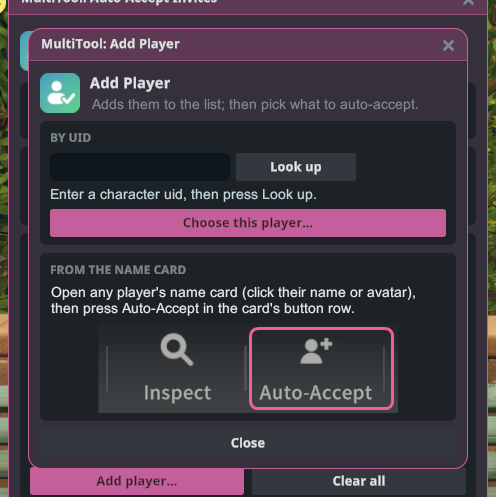
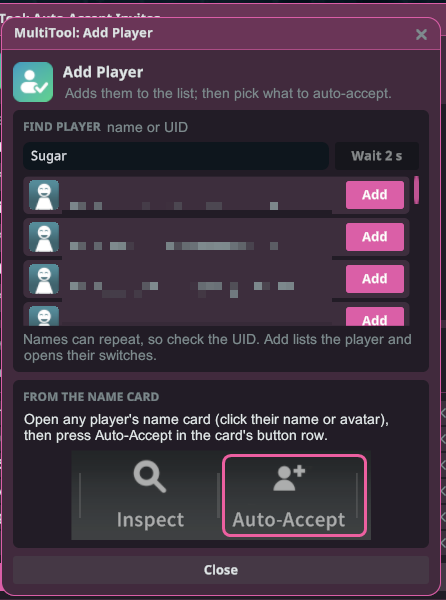
multitool 1.3.0: guide, screenshots, captions, changelog

diff --git a/plugins/multitool/guide.th.md b/plugins/multitool/guide.th.md
@@ -29,24 +29,23 @@
 
 ## Auto-Accept Invites (ตอบรับคำเชิญอัตโนมัติ)
 
-ตอบรับคำเชิญให้อัตโนมัติ แต่เฉพาะจากผู้เล่นที่อยู่ในรายชื่อของคุณเท่านั้น
+ตอบรับคำเชิญและคำขอโดยอัตโนมัติ แต่ละประเภทเลือกได้ 3 แบบ: **Off** (ตอบเอง), **Listed** (เฉพาะผู้เล่นในรายชื่อ) และ **Everyone** (ทุกคน)
 
 ![Auto-Accept Invites (ตอบรับคำเชิญอัตโนมัติ)](media/auto-accept.png)
 
-- **Accept all party requests** (อนุมัติคำขอเข้าปาร์ตี้ทั้งหมด): อนุมัติทุกคำขอเข้าร่วมปาร์ตี้ของคุณ ไม่ว่าจะมาจากใคร
-- **Party invites** (คำเชิญปาร์ตี้): ตอบรับคำเชิญเข้าปาร์ตี้จากผู้เล่นในรายชื่อ
-- **Social invites** (คำเชิญโซเชียล): ตอบรับคำชวนทำท่าทางคู่และคำชวนขี่พาหนะด้วยกันจากผู้เล่นในรายชื่อ
-- ผู้เล่นแต่ละคนในรายชื่อมีสวิตช์ **Party** (ปาร์ตี้) และ **Social** (โซเชียล) เป็นของตัวเอง เอาผู้เล่นออกด้วย **✕** ในแถวของเขา
-  หรือล้างรายชื่อทั้งหมดด้วย **Clear all** (ล้างทั้งหมด)
+- **Party** (ปาร์ตี้): คำเชิญเข้าปาร์ตี้ และคำขอเข้าร่วมปาร์ตี้ของคุณ
+- **Social** (โซเชียล): คำชวนทำท่าทางคู่และคำชวนขี่พาหนะด้วยกัน
+- **Party leader requests** (คำขอเป็นหัวหน้าปาร์ตี้): สมาชิกขอรับตำแหน่งหัวหน้าต่อ ขณะที่คุณเป็นหัวหน้าปาร์ตี้
+- ผู้เล่นแต่ละคนในรายชื่อมีสวิตช์ **Party**, **Social** และ **Leader** เป็นของตัวเอง ใช้เมื่อประเภทนั้นตั้งเป็น **Listed** เอาผู้เล่นออกด้วย **✕** ในแถวของเขา หรือล้างรายชื่อทั้งหมดด้วย **Clear all** (ล้างทั้งหมด)
+- เมื่อตอบรับแล้ว การ์ดคำเชิญของเกมจะปิดเอง
 
 ### การเพิ่มผู้เล่น
 
 ![การเพิ่มผู้เล่น](media/add-player.png)
 
 - **From the name card** (จากนามบัตร): เปิดนามบัตรของผู้เล่นคนไหนก็ได้ (คลิกชื่อหรือรูปโปรไฟล์ของเขา) แล้วกด
-  **Auto-Accept** ในแถวปุ่มของนามบัตร เขาจะถูกเพิ่มลงในรายชื่อของคุณ และจะมีหน้าต่างเล็ก ๆ เปิดขึ้นให้คุณเลือกว่าจะตอบรับอะไรจากเขาบ้าง
-- **By UID** (ด้วย UID): คลิก **Add player…** (เพิ่มผู้เล่น) พิมพ์ UID ของเขา กด **Look up** (ค้นหา) แล้วกด
-  **Choose this player…** (เลือกผู้เล่นคนนี้)
+  **Auto-Accept** ในแถวปุ่มของนามบัตร เขาจะถูกเพิ่มลงในรายชื่อของคุณ และจะมีหน้าต่างเล็ก ๆ เปิดขึ้นให้คุณเลือกว่าจะตอบรับอะไรจากเขาบ้าง สวิตช์ทุกตัวเริ่มต้นที่ปิด
+- **ด้วยชื่อหรือ UID**: คลิก **Add player…** (เพิ่มผู้เล่น) พิมพ์ชื่อบางส่วนหรือ UID แล้วกด **Search** (ค้นหา) ชื่ออาจซ้ำกันได้ ให้ดู UID ก่อนกด **Add** (เพิ่ม) เกมจำกัดความถี่ในการค้นหา จึงต้องรอสักครู่ระหว่างการค้นหาแต่ละครั้ง
 
 ## Language & Text (ภาษาและข้อความ)
 

diff --git a/plugins/multitool/guide.ja.md b/plugins/multitool/guide.ja.md
@@ -28,21 +28,22 @@
 
 ## Auto-Accept Invites（招待の自動承認）
 
-招待を自動で承認します。ただし、リストに登録したプレイヤーからの招待だけです。
+招待や申請を自動で承認します。種類ごとに3つから選べます：**Off**（自分で応答）、**Listed**（リストのプレイヤーからだけ）、**Everyone**（誰からでも）。
 
 ![Auto-Accept Invites（招待の自動承認）](media/auto-accept.png)
 
-- **Accept all party requests**（すべてのパーティ申請を承認）：誰からでも、パーティへの参加申請をすべて承認します。
-- **Party invites**（パーティ招待）：リストのプレイヤーからのパーティ招待を承認します。
-- **Social invites**（ソーシャル招待）：リストのプレイヤーからの、2人で行うエモートや相乗りの誘いを承認します。
-- リストの各プレイヤーには、それぞれ **Party**（パーティ）と **Social**（ソーシャル）のスイッチがあります。プレイヤーを外すにはその行の **✕** を、リストを空にするには **Clear all**（すべて消去）を押します。
+- **Party**（パーティ）：パーティへの招待と、あなたのパーティへの参加申請。
+- **Social**（ソーシャル）：2人で行うエモートや相乗りの誘い。
+- **Party leader requests**（リーダー申請）：あなたがリーダーのときに、メンバーからリーダーを交代してほしいという申請。
+- リストの各プレイヤーには **Party**、**Social**、**Leader** のスイッチがあり、その種類が **Listed** のときに使われます。プレイヤーを外すにはその行の **✕** を、リストを空にするには **Clear all**（すべて消去）を押します。
+- 承認すると、ゲームの招待カードは自動で閉じます。
 
 ### プレイヤーを追加する
 
 ![プレイヤーの追加](media/add-player.png)
 
-- **From the name card**（名刺から）：プレイヤーの名刺を開き（名前かアバターをクリック）、名刺のボタン列にある **Auto-Accept** を押します。リストに追加され、その相手から何を承認するかを選ぶ小さなウィンドウが開きます。
-- **By UID**（UIDで）：**Add player…**（プレイヤーを追加）をクリックし、相手のUIDを入力して **Look up**（検索）を押し、続けて **Choose this player…**（このプレイヤーを選択）を押します。
+- **From the name card**（名刺から）：プレイヤーの名刺を開き（名前かアバターをクリック）、名刺のボタン列にある **Auto-Accept** を押します。リストに追加され、その相手から何を承認するかを選ぶ小さなウィンドウが開きます。スイッチは最初すべてOffです。
+- **名前またはUIDで**：**Add player…**（プレイヤーを追加）をクリックし、名前の一部かUIDを入力して **Search**（検索）を押します。同じ名前のプレイヤーがいることがあるので、UIDを確かめてから **Add**（追加）を押してください。ゲームの制限で検索は数秒おきにしかできません。
 
 ## Language & Text（言語とテキスト）
 

diff --git a/plugins/multitool/guide.fil.md b/plugins/multitool/guide.fil.md
@@ -33,17 +33,15 @@ tumugtog siya malapit sa iyo.
 
 ## Auto-Accept Invites (Awtomatikong pagtanggap ng imbitasyon)
 
-Awtomatikong tanggapin ang mga imbitasyon, pero mula lang sa mga player na nasa listahan mo.
+Awtomatikong tanggapin ang mga imbitasyon at request. May tatlong pagpipilian ang bawat uri: **Off** (ikaw ang sasagot), **Listed** (mula lang sa mga player sa listahan) at **Everyone** (mula kahit kanino).
 
 ![Auto-Accept Invites (Awtomatikong pagtanggap ng imbitasyon)](media/auto-accept.png)
 
-- **Accept all party requests** (Tanggapin lahat ng party request): inaaprubahan ang bawat request na sumali sa
-  party mo, mula kahit kanino.
-- **Party invites** (Mga imbitasyon sa party): tinatanggap ang mga imbitasyon sa party mula sa mga player sa listahan.
-- **Social invites** (Mga social na imbitasyon): tinatanggap ang mga imbitasyon sa co-op emote at sa pagsakay nang
-  magkasama mula sa mga player sa listahan.
-- May sariling **Party** at **Social** na switch ang bawat player sa listahan. Alisin ang isang player gamit ang **✕**
-  sa row niya, o burahin ang buong listahan gamit ang **Clear all** (Burahin lahat).
+- **Party**: mga imbitasyon sa party, at mga request na sumali sa party mo.
+- **Social**: mga imbitasyon sa co-op emote at sa pagsakay nang magkasama.
+- **Party leader requests** (Mga request na maging leader): humihiling ang isang miyembro na siya na ang maging leader habang ikaw ang leader.
+- May sariling **Party**, **Social** at **Leader** na switch ang bawat player sa listahan, na ginagamit kapag **Listed** ang napili para sa uring iyon. Alisin ang isang player gamit ang **✕** sa row niya, o burahin ang buong listahan gamit ang **Clear all** (Burahin lahat).
+- Kapag natanggap na, kusang nagsasara ang invite card ng laro.
 
 ### Pagdagdag ng player
 
@@ -51,9 +49,8 @@ Awtomatikong tanggapin ang mga imbitasyon, pero mula lang sa mga player na nasa 
 
 - **From the name card** (Mula sa name card): buksan ang name card ng kahit sinong player (i-click ang pangalan o
   avatar niya) at pindutin ang **Auto-Accept** sa hanay ng mga button ng card. Madadagdag siya sa listahan mo at
-  magbubukas ang isang maliit na window kung saan pipiliin mo kung ano ang tatanggapin mula sa kanya.
-- **By UID** (Gamit ang UID): i-click ang **Add player…** (Magdagdag ng player), i-type ang UID niya, pindutin ang
-  **Look up** (Hanapin), tapos ang **Choose this player…** (Piliin ang player na ito).
+  magbubukas ang isang maliit na window kung saan pipiliin mo kung ano ang tatanggapin mula sa kanya. Naka-off ang lahat ng switch sa simula.
+- **Gamit ang pangalan o UID**: i-click ang **Add player…** (Magdagdag ng player), i-type ang bahagi ng pangalan o ang UID, at pindutin ang **Search** (Hanapin). Puwedeng magkapareho ang mga pangalan, kaya tingnan muna ang UID bago pindutin ang **Add** (Idagdag). Nililimitahan ng laro kung gaano kadalas ka makakapaghanap, kaya maghintay ng ilang segundo sa pagitan.
 
 ## Language & Text (Wika at text)
 

diff --git a/plugins/multitool/guide.ko.md b/plugins/multitool/guide.ko.md
@@ -30,24 +30,23 @@
 
 ## Auto-Accept Invites(초대 자동 수락)
 
-초대를 자동으로 수락합니다. 단, 목록에 넣은 플레이어의 초대만 수락합니다.
+초대와 신청을 자동으로 수락합니다. 종류마다 세 가지 중에서 고릅니다: **Off**(직접 응답), **Listed**(목록에 있는 플레이어만), **Everyone**(누구든).
 
 ![Auto-Accept Invites(초대 자동 수락)](media/auto-accept.png)
 
-- **Accept all party requests**(모든 파티 신청 수락): 누가 보냈든 파티 참가 신청을 모두 승인합니다.
-- **Party invites**(파티 초대): 목록에 있는 플레이어의 파티 초대를 수락합니다.
-- **Social invites**(소셜 초대): 목록에 있는 플레이어의 함께하는 감정 표현과 같이 타기 초대를 수락합니다.
-- 목록의 플레이어마다 **Party**(파티)와 **Social**(소셜) 스위치가 따로 있습니다. 해당 줄의 **✕**로 플레이어를 빼거나,
-  **Clear all**(모두 지우기)로 목록을 비웁니다.
+- **Party**(파티): 파티 초대, 그리고 내 파티 참가 신청.
+- **Social**(소셜): 함께하는 감정 표현과 같이 타기 초대.
+- **Party leader requests**(파티장 신청): 내가 파티장일 때 파티원이 파티장을 넘겨 달라고 하는 신청.
+- 목록의 플레이어마다 **Party**, **Social**, **Leader** 스위치가 따로 있으며, 해당 종류가 **Listed**일 때 쓰입니다. 해당 줄의 **✕**로 플레이어를 빼거나, **Clear all**(모두 지우기)로 목록을 비웁니다.
+- 수락하면 게임의 초대 카드가 저절로 닫힙니다.
 
 ### 플레이어 추가하기
 
 ![플레이어 추가](media/add-player.png)
 
 - **From the name card**(명함에서): 플레이어의 명함을 열고(이름이나 아바타를 클릭) 명함 버튼 줄에서
-  **Auto-Accept**를 누릅니다. 목록에 추가되고, 그 플레이어에게서 무엇을 수락할지 고르는 작은 창이 열립니다.
-- **By UID**(UID로): **Add player…**(플레이어 추가)를 클릭하고 UID를 입력한 뒤 **Look up**(조회)을 누르고,
-  이어서 **Choose this player…**(이 플레이어 선택)를 누릅니다.
+  **Auto-Accept**를 누릅니다. 목록에 추가되고, 그 플레이어에게서 무엇을 수락할지 고르는 작은 창이 열립니다. 처음에는 모든 스위치가 꺼져 있습니다.
+- **이름 또는 UID로**: **Add player…**(플레이어 추가)를 클릭하고 이름 일부나 UID를 입력한 뒤 **Search**(검색)를 누릅니다. 이름은 겹칠 수 있으니 UID를 확인하고 **Add**(추가)를 누르세요. 게임이 검색 빈도를 제한하므로 검색 사이에 몇 초 기다려야 합니다.
 
 ## Language & Text(언어와 텍스트)
 

diff --git a/plugins/multitool/guide.id.md b/plugins/multitool/guide.id.md
@@ -33,17 +33,15 @@ dekatmu lagi.
 
 ## Auto-Accept Invites (Terima undangan otomatis)
 
-Terima undangan secara otomatis, tapi hanya dari pemain yang ada di daftarmu.
+Terima undangan dan permintaan secara otomatis. Tiap jenis punya tiga pilihan: **Off** (kamu jawab sendiri), **Listed** (hanya dari pemain di daftar) dan **Everyone** (dari siapa pun).
 
 ![Auto-Accept Invites (Terima undangan otomatis)](media/auto-accept.png)
 
-- **Accept all party requests** (Terima semua permintaan party): menyetujui setiap permintaan bergabung ke party-mu,
-  dari siapa pun.
-- **Party invites** (Undangan party): terima undangan party dari pemain di daftar.
-- **Social invites** (Undangan sosial): terima ajakan emote bersama dan ajakan naik tunggangan bersama dari pemain di
-  daftar.
-- Tiap pemain di daftar punya sakelar **Party** dan **Social** (Sosial) sendiri. Hapus pemain dengan **✕** di
-  barisnya, atau kosongkan daftar dengan **Clear all** (Hapus semua).
+- **Party**: undangan party, dan permintaan bergabung ke party-mu.
+- **Social** (Sosial): ajakan emote bersama dan ajakan naik tunggangan bersama.
+- **Party leader requests** (Permintaan jadi pemimpin): anggota party meminta mengambil alih posisi pemimpin saat kamu yang memimpin.
+- Tiap pemain di daftar punya sakelar **Party**, **Social** dan **Leader** sendiri, yang dipakai saat jenis itu diatur ke **Listed**. Hapus pemain dengan **✕** di barisnya, atau kosongkan daftar dengan **Clear all** (Hapus semua).
+- Setelah diterima, kartu undangan game tertutup sendiri.
 
 ### Menambahkan pemain
 
@@ -51,9 +49,8 @@ Terima undangan secara otomatis, tapi hanya dari pemain yang ada di daftarmu.
 
 - **From the name card** (Dari kartu nama): buka kartu nama pemain mana pun (klik nama atau avatarnya) lalu tekan
   **Auto-Accept** di deretan tombol kartu itu. Pemain itu masuk ke daftarmu, dan jendela kecil terbuka untuk memilih
-  apa saja yang diterima darinya.
-- **By UID** (Lewat UID): klik **Add player…** (Tambah pemain), ketik UID-nya, tekan **Look up** (Cari), lalu
-  **Choose this player…** (Pilih pemain ini).
+  apa saja yang diterima darinya. Semua sakelar mulai dalam keadaan mati.
+- **Lewat nama atau UID**: klik **Add player…** (Tambah pemain), ketik sebagian nama atau UID, lalu tekan **Search** (Cari). Nama bisa sama, jadi cek UID-nya sebelum menekan **Add** (Tambah). Game membatasi seberapa sering kamu bisa mencari, jadi tunggu beberapa detik di antara pencarian.
 
 ## Language & Text (Bahasa & teks)
 

diff --git a/plugins/multitool/guide.md b/plugins/multitool/guide.md
@@ -31,15 +31,15 @@ Your list is kept between sessions, so a player you muted stays muted the next t
 
 ## Auto-Accept Invites
 
-Accept invites automatically, but only from the players you list.
+Accept invites and requests automatically. Each kind has three choices: **Off** (you answer it yourself), **Listed** (only from players on your list) and **Everyone**.
 
 ![Auto-Accept Invites](media/auto-accept.png)
 
-- **Accept all party requests** approves every request to join your party, from anyone.
-- **Party invites**: accept party invites from listed players.
-- **Social invites**: accept co-op emotes and ride-together invites from listed players.
-- Each player on the list has their own **Party** and **Social** switches. Remove a player with the
-  **✕** on their row, or empty the list with **Clear all**.
+- **Party**: party invites, and requests to join your party.
+- **Social**: co-op emotes and ride-together invites.
+- **Party leader requests**: a party member asks to take over as leader while you lead.
+- Each player on the list has their own **Party**, **Social** and **Leader** switches, used when that kind is set to **Listed**. Remove a player with the **✕** on their row, or empty the list with **Clear all**.
+- Once something is accepted, the game's invite card closes by itself.
 
 ### Adding a player
 
@@ -47,8 +47,8 @@ Accept invites automatically, but only from the players you list.
 
 - **From the name card**: open any player's name card (click their name or avatar) and press
   **Auto-Accept** in the card's button row. They're added to your list and a small window opens where
-  you pick what to accept from them.
-- **By UID**: click **Add player…**, type their UID, press **Look up**, then **Choose this player…**.
+  you pick what to accept from them. Every switch starts off.
+- **By name or UID**: click **Add player…**, type part of a name or a UID and press **Search**. Names can repeat, so check the UID before you press **Add**. The game limits how often you can search, so wait a few seconds between searches.
 
 ## Language & Text
 
